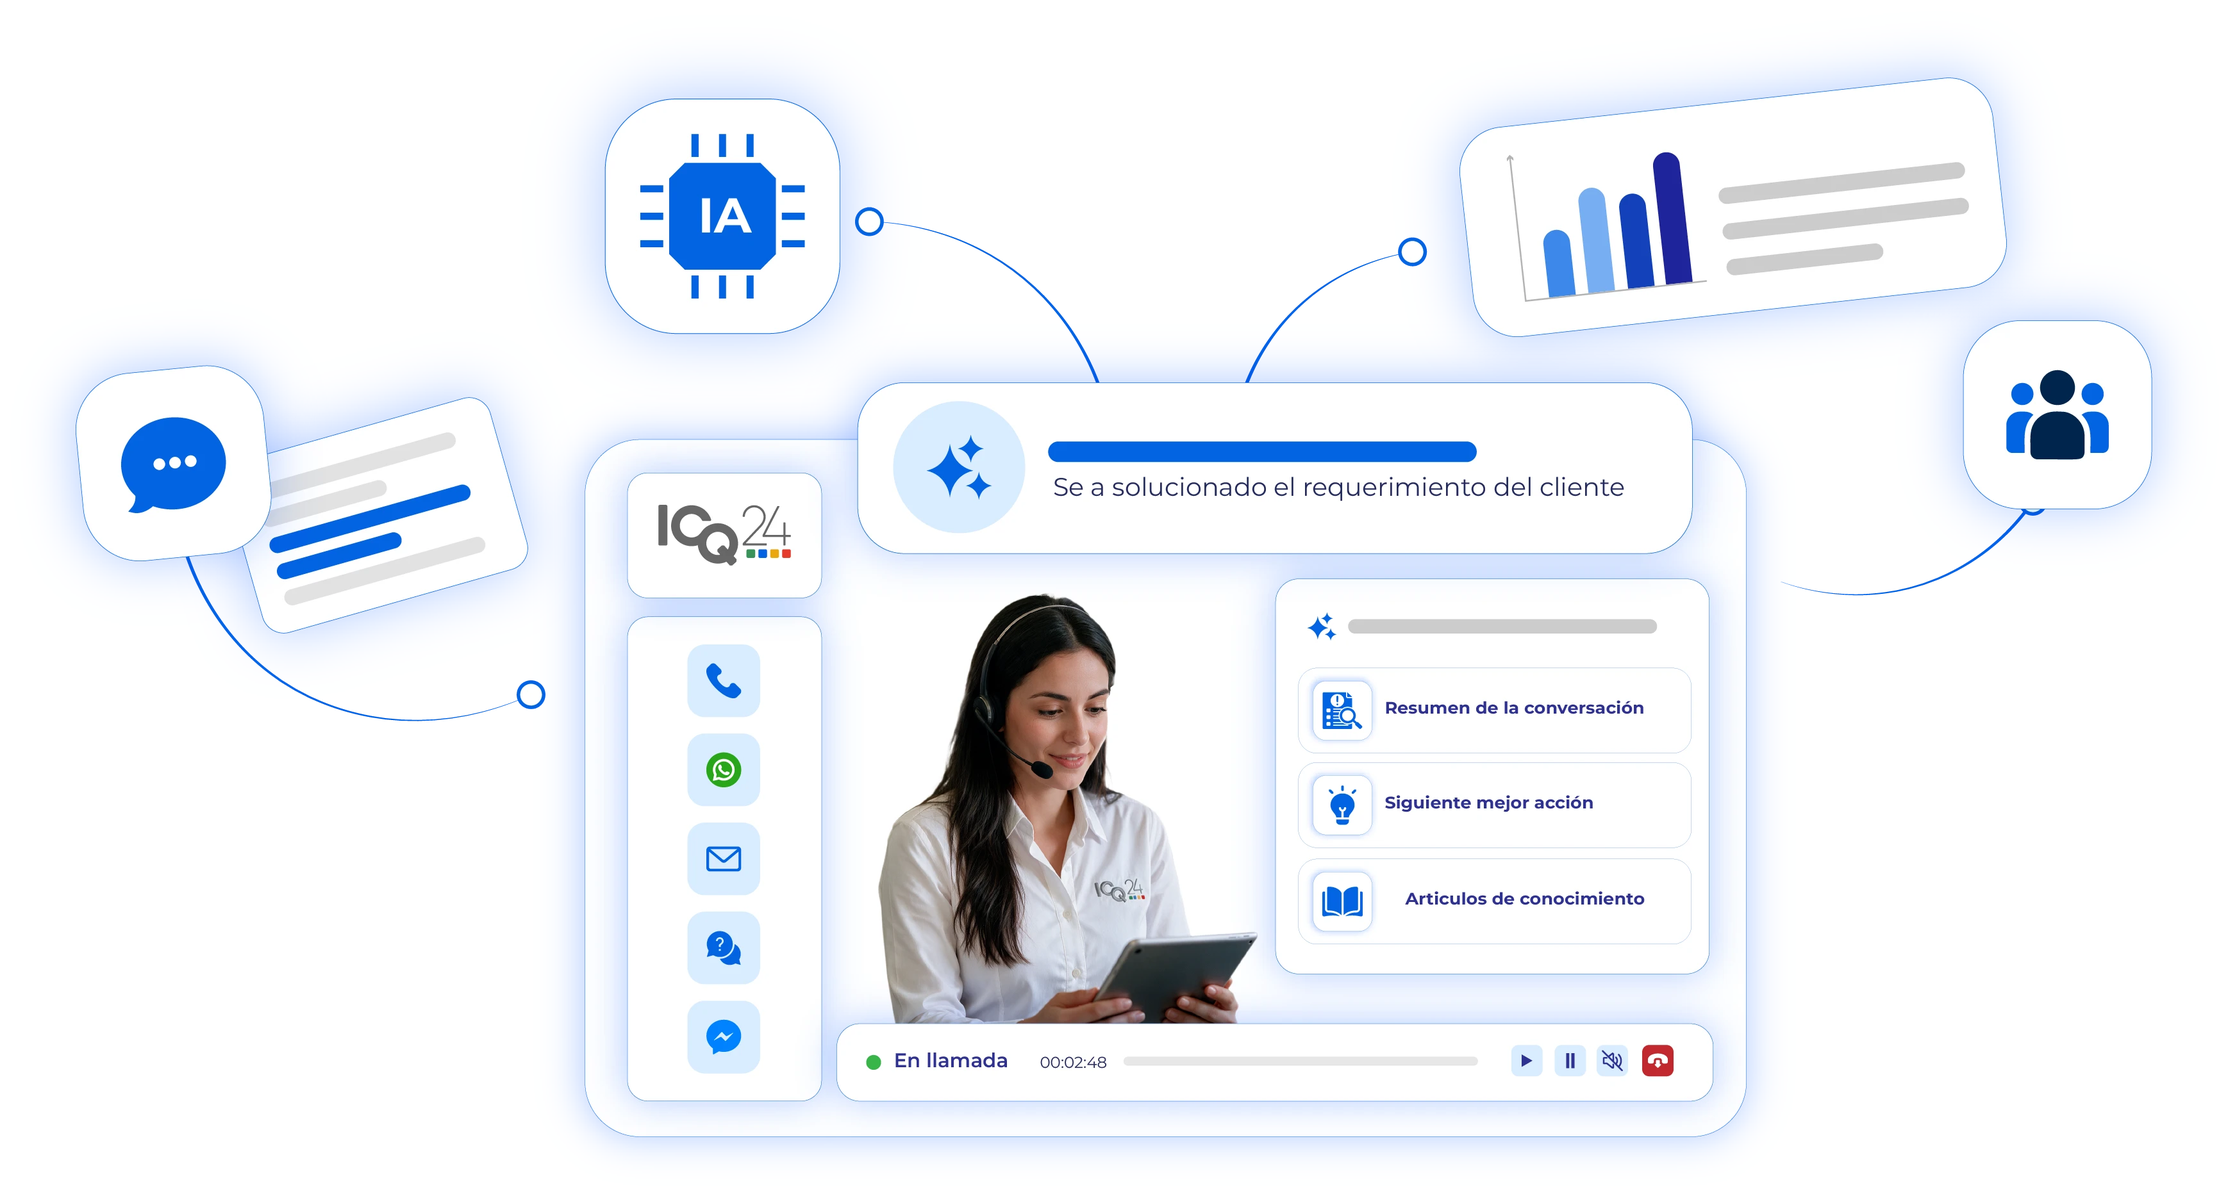
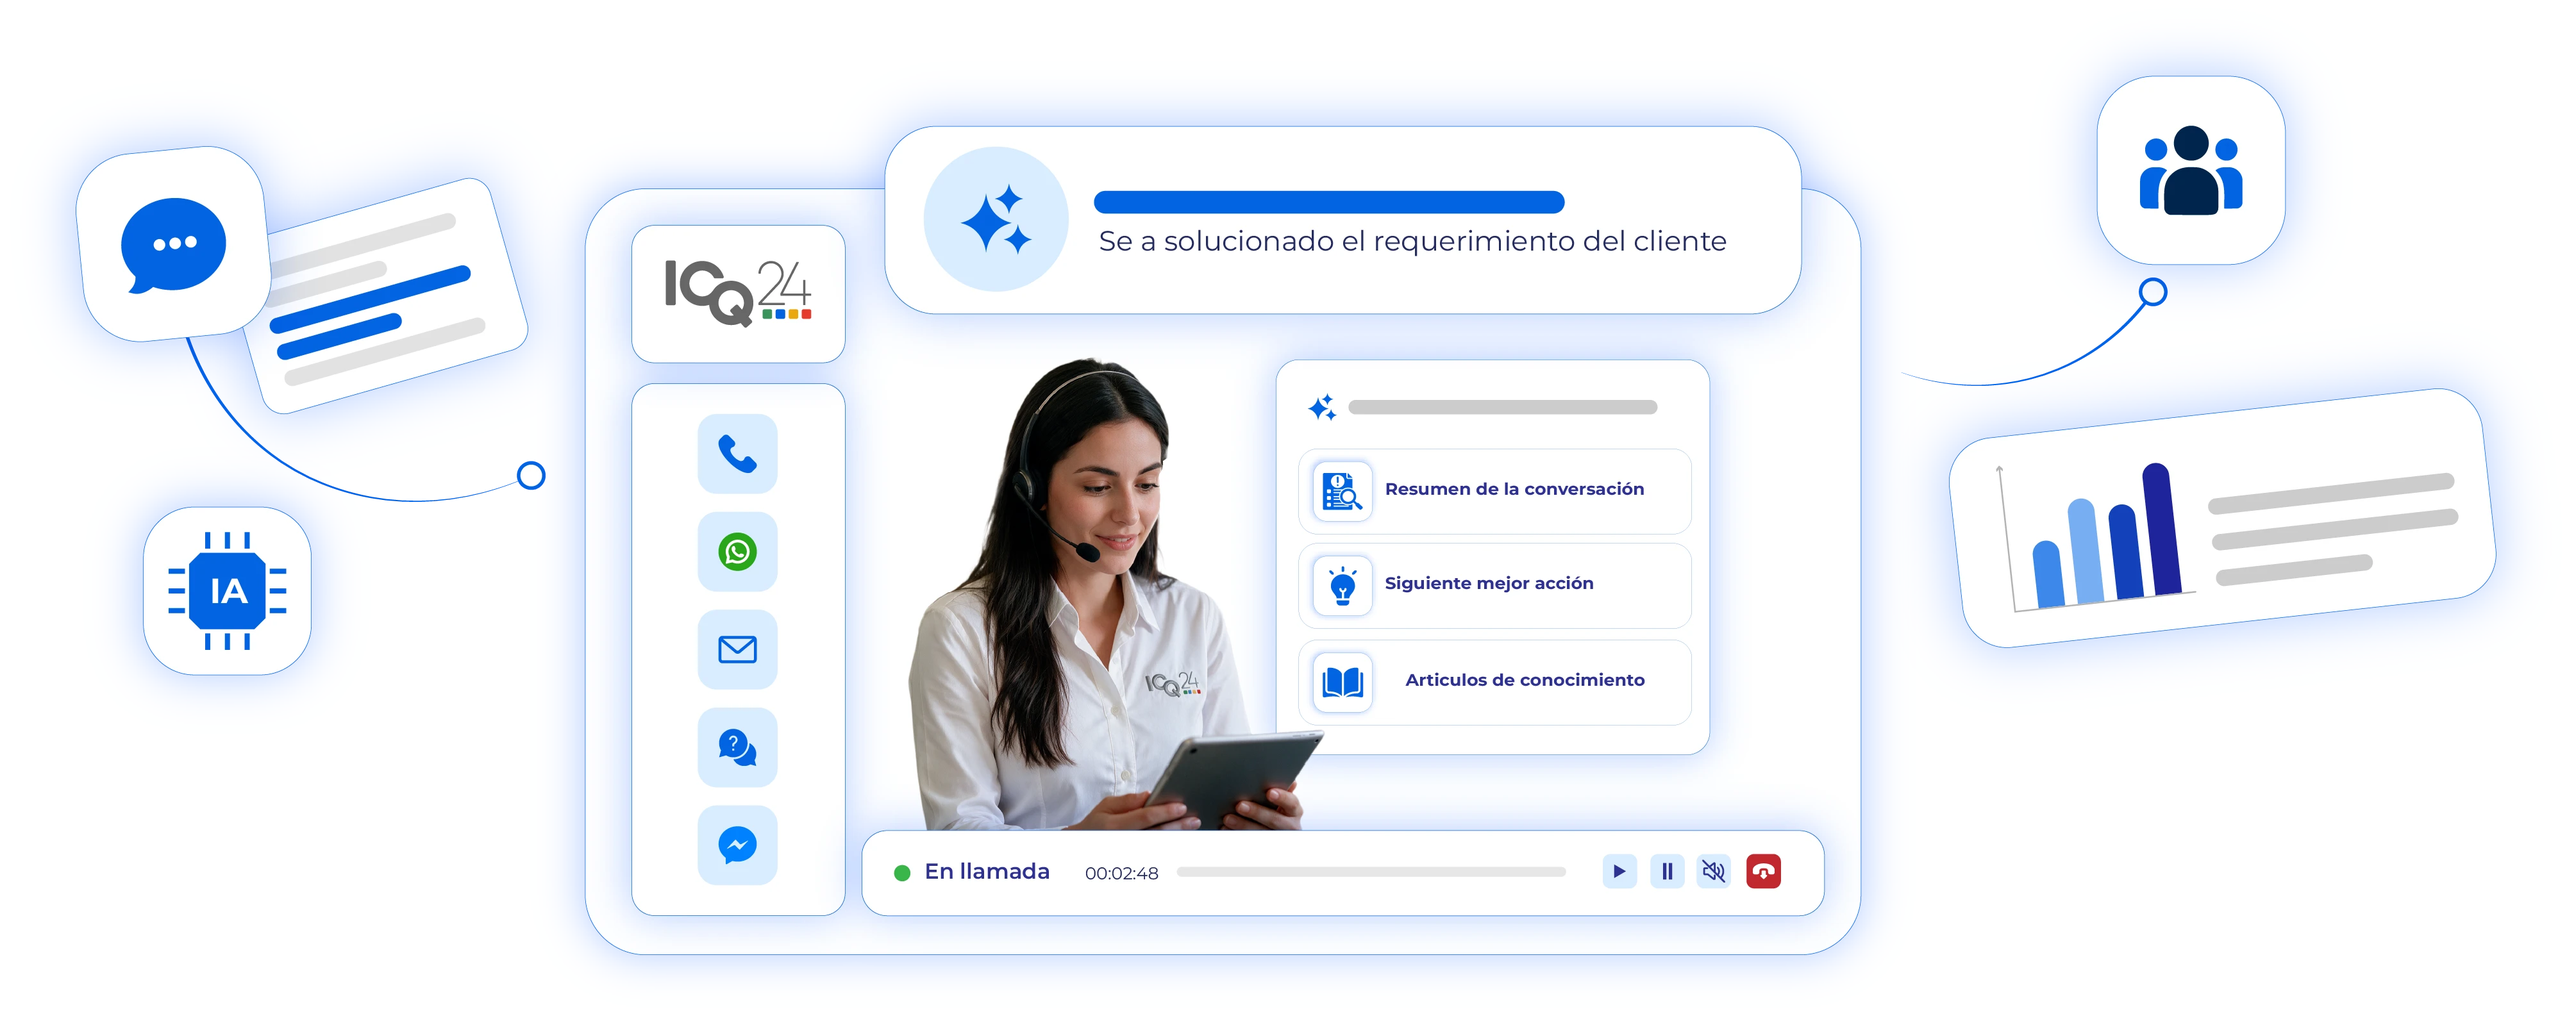
Home

Changed region(s): [[0.0, 0.0615, 0.9942, 0.9843]]

diff --git a/index.html b/index.html
@@ -531,11 +531,11 @@
           >
             <!-- SLIDE 1: Hero Opción 1 -->
             <div
-              class="hero-slide absolute inset-0 w-full h-full flex flex-col items-center justify-start pt-2 sm:pt-4 lg:pt-5 transition-all duration-700 ease-out transform opacity-100 translate-x-0"
+              class="hero-slide absolute inset-0 w-full h-full flex flex-col items-center justify-start pt-1 sm:pt-2 lg:pt-3 transition-all duration-700 ease-out transform opacity-100 translate-x-0"
               data-slide="0"
             >
               <h1
-                class="text-2xl sm:text-3xl lg:text-4xl font-black text-slate-900 leading-[1.18] tracking-tight max-w-4xl mx-auto mb-3 sm:mb-4 px-2 sm:px-0"
+                class="text-2xl sm:text-3xl lg:text-4xl font-black text-slate-900 leading-[1.18] tracking-tight max-w-4xl mx-auto mb-2 sm:mb-3 px-2 sm:px-0"
               >
                 <span class="text-icqBlue font-black"
                   >Transforma tu Contact Center</span
@@ -544,7 +544,7 @@
               </h1>
 
               <p
-                class="text-xs sm:text-sm lg:text-base text-slate-600 leading-relaxed font-medium max-w-3xl mx-auto mb-4 sm:mb-5 px-4 sm:px-0"
+                class="text-xs sm:text-sm lg:text-base text-slate-600 leading-relaxed font-medium max-w-3xl mx-auto mb-3 sm:mb-4 px-4 sm:px-0"
               >
                 Integramos IA, automatización, omnicanalidad y analítica con tu
                 operación para optimizar CX, potenciar la productividad de tus
@@ -553,12 +553,12 @@
               </p>
 
               <div
-                class="flex flex-wrap items-center justify-center gap-3 sm:gap-4 mb-2.5"
+                class="relative z-10 flex flex-wrap items-center justify-center gap-3 sm:gap-4 mb-1.5"
               >
                 <a
                   href="#contacto"
                   id="hero-cta-slide1-primary"
-                  class="btn-primary text-sm sm:text-base !px-7 sm:!px-8 !py-3.5 sm:!py-4 shadow-lg focus:outline-none focus:ring-2 focus:ring-offset-2 focus:ring-icqBlue inline-flex items-center gap-2"
+                  class="btn-primary text-sm sm:text-base !px-7 sm:!px-8 !py-3 sm:!py-3.5 shadow-lg focus:outline-none focus:ring-2 focus:ring-offset-2 focus:ring-icqBlue inline-flex items-center gap-2"
                 >
                   <span>Hablemos de tu operación</span>
                   <i
@@ -569,7 +569,7 @@
                 <a
                   href="https://www.icq24.com/casos-de-uso"
                   id="hero-cta-slide1-secondary"
-                  class="btn-secondary text-sm sm:text-base !px-7 sm:!px-8 !py-3.5 sm:!py-4 inline-flex items-center gap-2"
+                  class="btn-secondary text-sm sm:text-base !px-7 sm:!px-8 !py-3 sm:!py-3.5 inline-flex items-center gap-2"
                 >
                   <span>Explorar casos de uso</span>
                   <i
@@ -579,10 +579,10 @@
                 </a>
               </div>
 
-              <div class="mb-3 sm:mb-4">
+              <div class="relative z-10 mb-0">
                 <a
                   href="#calculadora"
-                  class="text-xs sm:text-sm font-bold text-icqBlue hover:text-blue-700 inline-flex items-center gap-1.5 transition-colors hover:underline"
+                  class="text-xs sm:text-sm font-bold text-icqBlue hover:text-blue-700 inline-flex items-center gap-1.5 transition-colors hover:underline bg-white/70 backdrop-blur-sm px-3 py-0.5 rounded-full"
                 >
                   <i
                     class="fa-solid fa-calculator text-xs"
@@ -592,17 +592,18 @@
                 </a>
               </div>
 
-              <!-- Dashboard Image Preview Mockup (Ajustado a la altura de referencia con degradado suave) -->
-              <div class="relative w-full max-w-3xl lg:max-w-4xl mx-auto px-2 sm:px-4 mt-2 sm:mt-3 pointer-events-none select-none">
-                <div class="relative max-h-[150px] sm:max-h-[190px] lg:max-h-[220px] xl:max-h-[240px] rounded-t-2xl sm:rounded-t-3xl overflow-hidden shadow-2xl border-t border-x border-slate-200/90 bg-white [mask-image:linear-gradient(to_bottom,rgba(0,0,0,1)_0%,rgba(0,0,0,1)_60%,rgba(0,0,0,0.3)_85%,rgba(0,0,0,0)_100%)] [-webkit-mask-image:linear-gradient(to_bottom,rgba(0,0,0,1)_0%,rgba(0,0,0,1)_60%,rgba(0,0,0,0.3)_85%,rgba(0,0,0,0)_100%)]">
+              <!-- Dashboard Image Preview Mockup -->
+              <div class="relative z-0 w-full max-w-4xl lg:max-w-5xl mx-auto px-2 sm:px-4 -mt-20 sm:-mt-28 lg:-mt-32 xl:-mt-36 pointer-events-none select-none">
+                <div class="relative max-h-[360px] sm:max-h-[420px] lg:max-h-[480px] xl:max-h-[520px] overflow-hidden [mask-image:linear-gradient(to_bottom,rgba(0,0,0,1)_0%,rgba(0,0,0,1)_75%,rgba(0,0,0,0.3)_92%,rgba(0,0,0,0)_100%)] [-webkit-mask-image:linear-gradient(to_bottom,rgba(0,0,0,1)_0%,rgba(0,0,0,1)_75%,rgba(0,0,0,0.3)_92%,rgba(0,0,0,0)_100%)]">
                   <img
-                    src="Assets/Hero_Five9_Dashboard.png"
-                    alt="Five9 Cloud Contact Center Dashboard - Plataforma Inteligente"
-                    class="w-full h-auto object-cover object-top rounded-t-2xl sm:rounded-t-3xl"
+                    src="https://github.com/Lucaro99/Pagina-Soporte/blob/main/Assets/Home/Home_Slide_3.webp?raw=true"
+                    onerror="this.src='Assets/Home/Home_Slide_3.webp'"
+                    alt="ICQ24 Contact Center Inteligente - Interacción y Automatización"
+                    class="w-full h-auto object-contain object-top drop-shadow-2xl"
                     loading="eager"
                   />
                   <!-- Degradado difuminado suave inferior -->
-                  <div class="absolute inset-x-0 bottom-0 h-16 sm:h-20 bg-gradient-to-t from-white via-white/60 to-transparent pointer-events-none"></div>
+                  <div class="absolute inset-x-0 bottom-0 h-12 sm:h-16 bg-gradient-to-t from-white via-white/70 to-transparent pointer-events-none"></div>
                 </div>
               </div>
             </div>
@@ -666,9 +667,9 @@
                 <div class="lg:col-span-6 xl:col-span-6 flex items-center justify-center lg:justify-end">
                   <div class="relative w-full max-w-[380px] sm:max-w-[460px] lg:max-w-[540px] xl:max-w-[600px] group">
                     <img
-                      src="https://github.com/Lucaro99/Pagina-Soporte/blob/main/Assets/Hero%20Agente%20Assist.webp?raw=true"
-                      onerror="this.src='Assets/Hero Agente Assist.webp'"
-                      alt="Lleva la IA a cada nivel - Agente Asistido ICQ24"
+                      src="https://github.com/Lucaro99/Pagina-Soporte/blob/main/Assets/Home/Home_Slide_1.webp?raw=true"
+                      onerror="this.src='Assets/Home/Home_Slide_1.webp'"
+                      alt="Lleva la IA a cada nivel - Soluciones ICQ24"
                       class="w-full h-auto max-h-[340px] sm:max-h-[420px] lg:max-h-[480px] xl:max-h-[520px] object-contain drop-shadow-2xl transition-transform duration-500 group-hover:scale-105"
                       loading="lazy"
                     />
@@ -679,7 +680,7 @@
 
             <!-- SLIDE 3: Hero Opción 3 -->
             <div
-              class="hero-slide absolute inset-0 w-full h-full flex flex-col items-center justify-start pt-2 sm:pt-4 lg:pt-5 transition-all duration-700 ease-out transform opacity-0 translate-x-8 pointer-events-none"
+              class="hero-slide absolute inset-0 w-full h-full flex flex-col items-center justify-start pt-1 sm:pt-2 lg:pt-3 transition-all duration-700 ease-out transform opacity-0 translate-x-8 pointer-events-none"
               data-slide="2"
             >
               <h2
@@ -692,13 +693,13 @@
               </h2>
 
               <p
-                class="text-xs sm:text-sm font-bold text-icqBlue uppercase tracking-wider mb-1.5 sm:mb-2"
+                class="text-xs sm:text-sm font-bold text-icqBlue uppercase tracking-wider mb-1 sm:mb-1.5"
               >
                 Más productividad. Más capacidad. Mejores experiencias.
               </p>
 
               <p
-                class="text-xs sm:text-sm lg:text-base text-slate-600 leading-relaxed font-medium max-w-3xl mx-auto mb-3 sm:mb-4 px-4 sm:px-0"
+                class="text-xs sm:text-sm lg:text-base text-slate-600 leading-relaxed font-medium max-w-3xl mx-auto mb-2.5 sm:mb-3 px-4 sm:px-0"
               >
                 Conecta capacidad, productividad, analítica, calidad y
                 experiencia para obtener una visión más precisa de tu operación,
@@ -707,12 +708,12 @@
               </p>
 
               <div
-                class="flex flex-wrap items-center justify-center gap-3 sm:gap-4 mb-2"
+                class="relative z-10 flex flex-wrap items-center justify-center gap-3 sm:gap-4 mb-1.5"
               >
                 <a
                   href="#contacto"
                   id="hero-cta-slide3-primary"
-                  class="btn-primary text-sm sm:text-base !px-7 sm:!px-8 !py-3.5 sm:!py-4 shadow-lg focus:outline-none focus:ring-2 focus:ring-offset-2 focus:ring-icqBlue inline-flex items-center gap-2"
+                  class="btn-primary text-sm sm:text-base !px-7 sm:!px-8 !py-3 sm:!py-3.5 shadow-lg focus:outline-none focus:ring-2 focus:ring-offset-2 focus:ring-icqBlue inline-flex items-center gap-2"
                 >
                   <span>Elevar el desempeño de mi operación</span>
                   <i
@@ -722,10 +723,10 @@
                 </a>
               </div>
 
-              <div class="mb-3 sm:mb-4">
+              <div class="relative z-10 mb-0">
                 <a
                   href="#calculadora"
-                  class="text-xs sm:text-sm font-bold text-icqBlue hover:text-blue-700 inline-flex items-center gap-1.5 transition-colors hover:underline"
+                  class="text-xs sm:text-sm font-bold text-icqBlue hover:text-blue-700 inline-flex items-center gap-1.5 transition-colors hover:underline bg-white/70 backdrop-blur-sm px-3 py-0.5 rounded-full"
                 >
                   <i
                     class="fa-solid fa-calculator text-xs"
@@ -737,17 +738,18 @@
                 </a>
               </div>
 
-              <!-- Dashboard Image Preview Mockup (Ajustado a la altura de referencia con degradado suave) -->
-              <div class="relative w-full max-w-3xl lg:max-w-4xl mx-auto px-2 sm:px-4 mt-2 sm:mt-3 pointer-events-none select-none">
-                <div class="relative max-h-[150px] sm:max-h-[190px] lg:max-h-[220px] xl:max-h-[240px] rounded-t-2xl sm:rounded-t-3xl overflow-hidden shadow-2xl border-t border-x border-slate-200/90 bg-white [mask-image:linear-gradient(to_bottom,rgba(0,0,0,1)_0%,rgba(0,0,0,1)_60%,rgba(0,0,0,0.3)_85%,rgba(0,0,0,0)_100%)] [-webkit-mask-image:linear-gradient(to_bottom,rgba(0,0,0,1)_0%,rgba(0,0,0,1)_60%,rgba(0,0,0,0.3)_85%,rgba(0,0,0,0)_100%)]">
+              <!-- Dashboard Image Preview Mockup -->
+              <div class="relative z-0 w-full max-w-4xl lg:max-w-5xl mx-auto px-2 sm:px-4 -mt-20 sm:-mt-28 lg:-mt-32 xl:-mt-36 pointer-events-none select-none">
+                <div class="relative max-h-[360px] sm:max-h-[420px] lg:max-h-[480px] xl:max-h-[520px] overflow-hidden [mask-image:linear-gradient(to_bottom,rgba(0,0,0,1)_0%,rgba(0,0,0,1)_75%,rgba(0,0,0,0.3)_92%,rgba(0,0,0,0)_100%)] [-webkit-mask-image:linear-gradient(to_bottom,rgba(0,0,0,1)_0%,rgba(0,0,0,1)_75%,rgba(0,0,0,0.3)_92%,rgba(0,0,0,0)_100%)]">
                   <img
-                    src="Assets/Hero_Five9_Dashboard.png"
-                    alt="Five9 Cloud Contact Center Dashboard - Operación Eficiente"
-                    class="w-full h-auto object-cover object-top rounded-t-2xl sm:rounded-t-3xl"
+                    src="https://github.com/Lucaro99/Pagina-Soporte/blob/main/Assets/Home/Home_Slide_2.webp?raw=true"
+                    onerror="this.src='Assets/Home/Home_Slide_2.webp'"
+                    alt="ICQ24 Eficiencia Operacional y Contact Center"
+                    class="w-full h-auto object-contain object-top drop-shadow-2xl"
                     loading="lazy"
                   />
                   <!-- Degradado difuminado suave inferior -->
-                  <div class="absolute inset-x-0 bottom-0 h-16 sm:h-20 bg-gradient-to-t from-white via-white/60 to-transparent pointer-events-none"></div>
+                  <div class="absolute inset-x-0 bottom-0 h-12 sm:h-16 bg-gradient-to-t from-white via-white/70 to-transparent pointer-events-none"></div>
                 </div>
               </div>
             </div>
